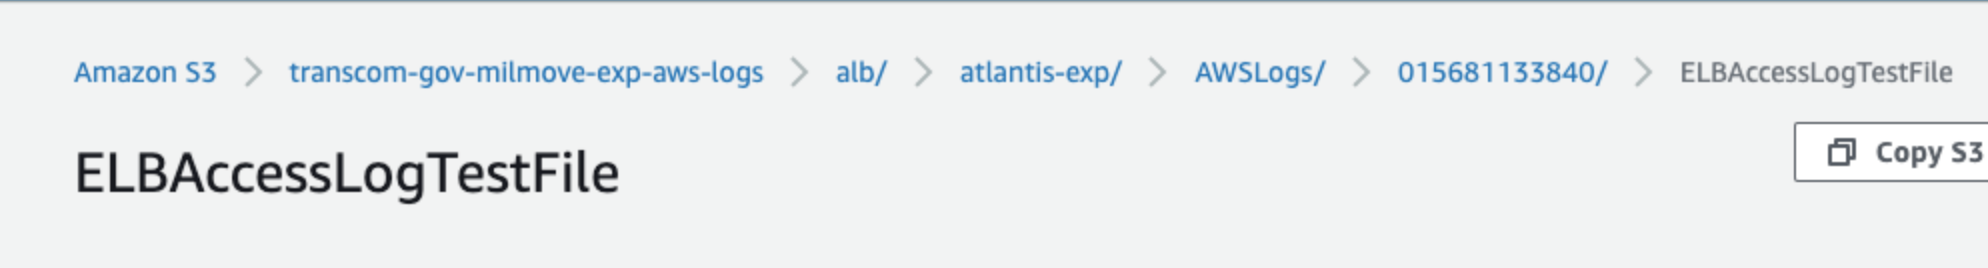
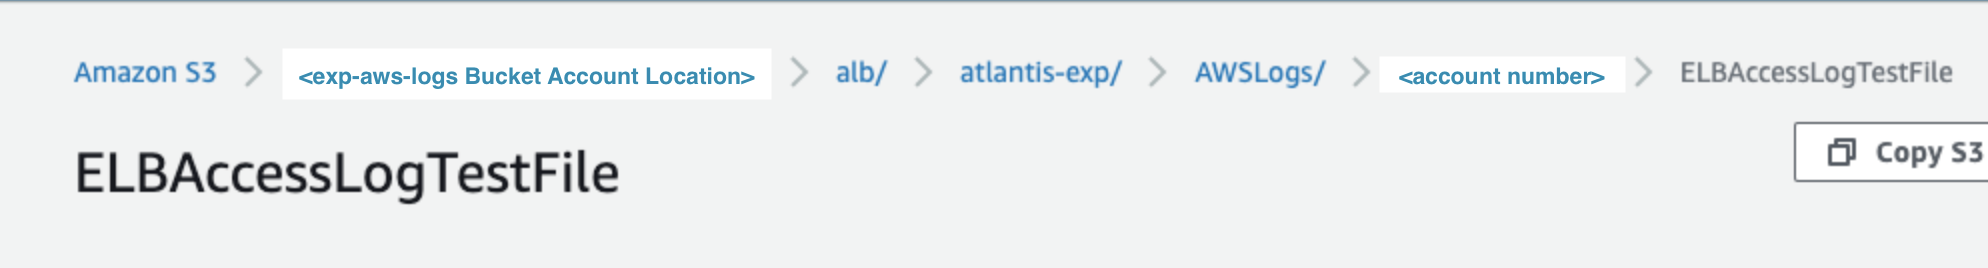
add redacted image and fix a naming error

Changed region(s): [[0.1247, 0.2388, 0.4054, 0.3284], [0.6861, 0.209, 0.8109, 0.3284]]

diff --git a/infrasec/tutorials/atlantis.md b/infrasec/tutorials/atlantis.md
@@ -34,7 +34,7 @@ This tutorial covers using the [Atlantis Fargate module](https://registry.terraf
 * [SSL certificate using Amazon Certificate Manager (ACM)](https://registry.terraform.io/modules/terraform-aws-modules/acm/aws/latest)
 * [Application Load Balancer (ALB)](https://registry.terraform.io/modules/terraform-aws-modules/alb/aws/latest) and submodules for [https 443](https://registry.terraform.io/modules/terraform-aws-modules/security-group/aws/latest/submodules/https-443) and [http 80](https://registry.terraform.io/modules/terraform-aws-modules/security-group/aws/latest/submodules/http-80)
 * Domain name using [AWS Route53](https://registry.terraform.io/providers/hashicorp/aws/latest/docs/resources/route53_record) which points to ALB
-* AWS [Elastic Cloud Service (ECS)](https://registry.terraform.io/modules/terraform-aws-modules/ecs/aws/latest), and [AWS Fargate running Atlantis Docker image](https://github.com/cloudposse/terraform-aws-ecs-container-definition)
+* AWS [Elastic Container Service (ECS)](https://registry.terraform.io/modules/terraform-aws-modules/ecs/aws/latest), and [AWS Fargate running Atlantis Docker image](https://github.com/cloudposse/terraform-aws-ecs-container-definition)
 * AWS [Parameter Store](https://registry.terraform.io/providers/hashicorp/aws/latest/docs/resources/ssm_parameter) to keep secrets and access them in ECS task natively
 
 Some of these resources probably already exist on your project. The module expects us to integrate them. If the key resources don't exist, the Atlantis module (and submodules) will create those resources for us. Figuring out which of our project's pre-existing resources to integrate, and then which resources we should leverage the Atlantis module's calls to create is the next step. Here's a rough whiteboarded visual of the process. Some call it art:
@@ -203,9 +203,7 @@ We'll need to add a new certificate to ACM, which [manages our certificates for 
 
 3. Validate the Route53 DNS records in the Commercial account using the [`aws_acm_certificate_validation` resource](https://registry.terraform.io/providers/hashicorp/aws/latest/docs/resources/acm_certificate_validation).
 
-    We'll need to find the `arn` to plug into the [atlantis module](https://registry.terraform.io/modules/terraform-aws-modules/atlantis/aws/latest) we'll call in the next step. We can find this in the console's Certificate Manager after merging the PR to add the certificate.
-
-    <img src="https://github.com/trussworks/Engineering-Playbook/blob/3efe6ea02ed010f3db2c07921c5c8acc60406b84/infrasec/tutorials/images/atlantis_acm1.png" alt="AWS Console screenshot of ACM" width="450">
+    We'll need to find the `arn` to plug into the [atlantis module](https://registry.terraform.io/modules/terraform-aws-modules/atlantis/aws/latest) we'll call in the next step. After merging the PR to add the certificate, we can find this `arn` in the console's Certificate Manager under the "Details" section for the domain name (in our example, `atlantis.exp.net`).
 
 ### Set up the Image for Fargate to Use 🐋
 
